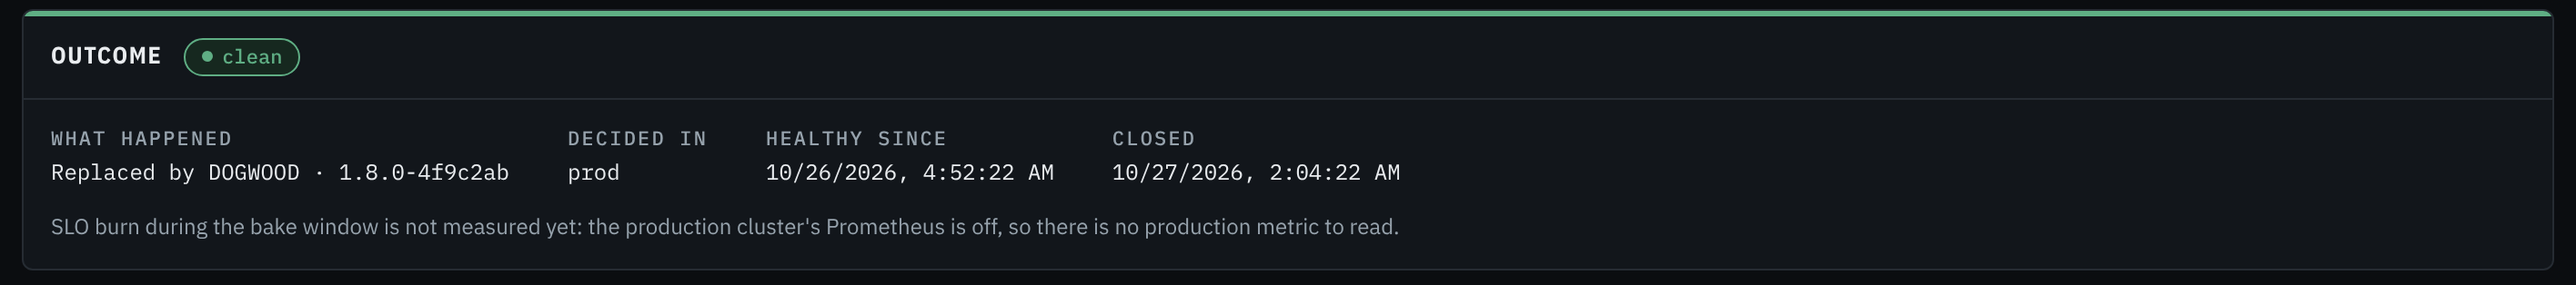
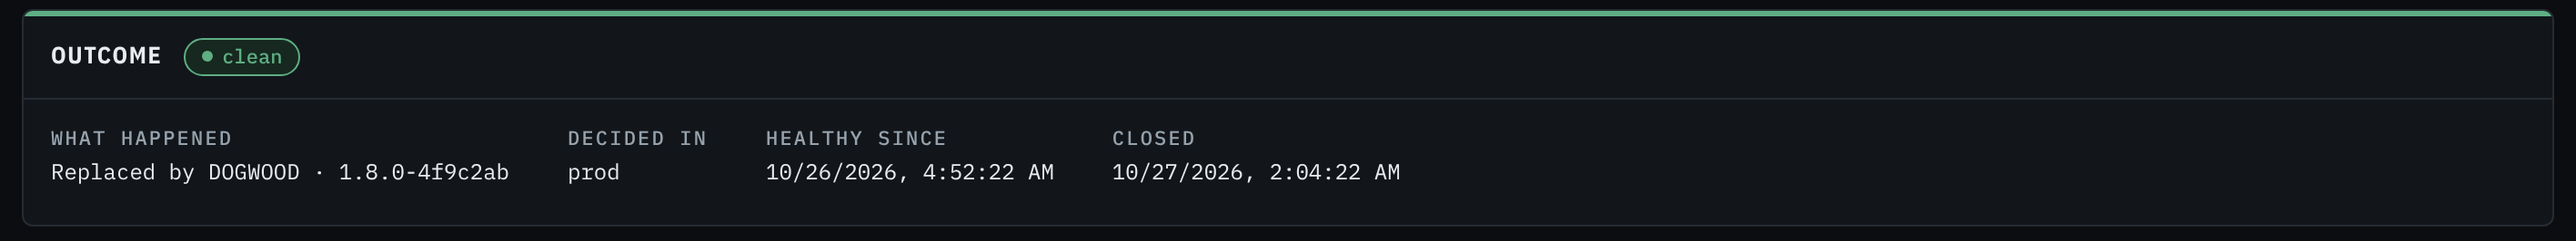
release record essay: check rides and production metrics exist (#79)
Autoland is missing its decision, not its inputs: the check ride is a real
test result and canaries are judged on production's Prometheus. The bake
still doesn't read SLO burn. Same correction in business-rules.md, and the
outcome still no longer shows Tower's stale "Prometheus is off" line.

Claude-Session: https://claude.ai/code/session_01UxU3UcgYy2EUhndn486ij4

diff --git a/docs/policy/business-rules.md b/docs/policy/business-rules.md
@@ -308,7 +308,7 @@ Every place where a rule above is weaker than it reads, in one list:
 | `qa` is advisory on hangar-dev. | GATE-12, GATE-13 | `required: false` until every app with a Flight environment has a check ride (boarding-api has one). The check runs and reports; a missing ride does not fail it. |
 | The check-rides repository's owners are not enforced. | TEST-04 | A private repo on GitHub Free: code-owner review is convention. The repo holds no secrets and can be made public. |
 | An app opens its NetworkPolicy to tests by hand. | TEST-07 | A platform default for the `testkube` namespace is on the test framework roadmap. |
-| Production SLO burn isn't measured. | REL-13 | kind-prod's Prometheus is off, so "clean" can't yet mean "no SLO burn during bake". |
+| Production SLO burn isn't read during the bake. | REL-13 | Production's Prometheus is on and canary analysis uses it, but the outcome is still decided from the rollout alone, so "clean" can't yet mean "no SLO burn during bake". |
 | Image signatures aren't checked at admission. | SC-05 | An unsigned image could run if it got into git. GATE-07 is the only check. |
 | `airframe-validate` doesn't run on app repos or the tenants repo. | GATE-08, CRED-01 | Airframe roadmap AF-4b. |
 | Agent and security-review limits are convention. | AF-06, AF-07, AI-03 | Clearance isn't deployed, and no rule requires a security reviewer. |
